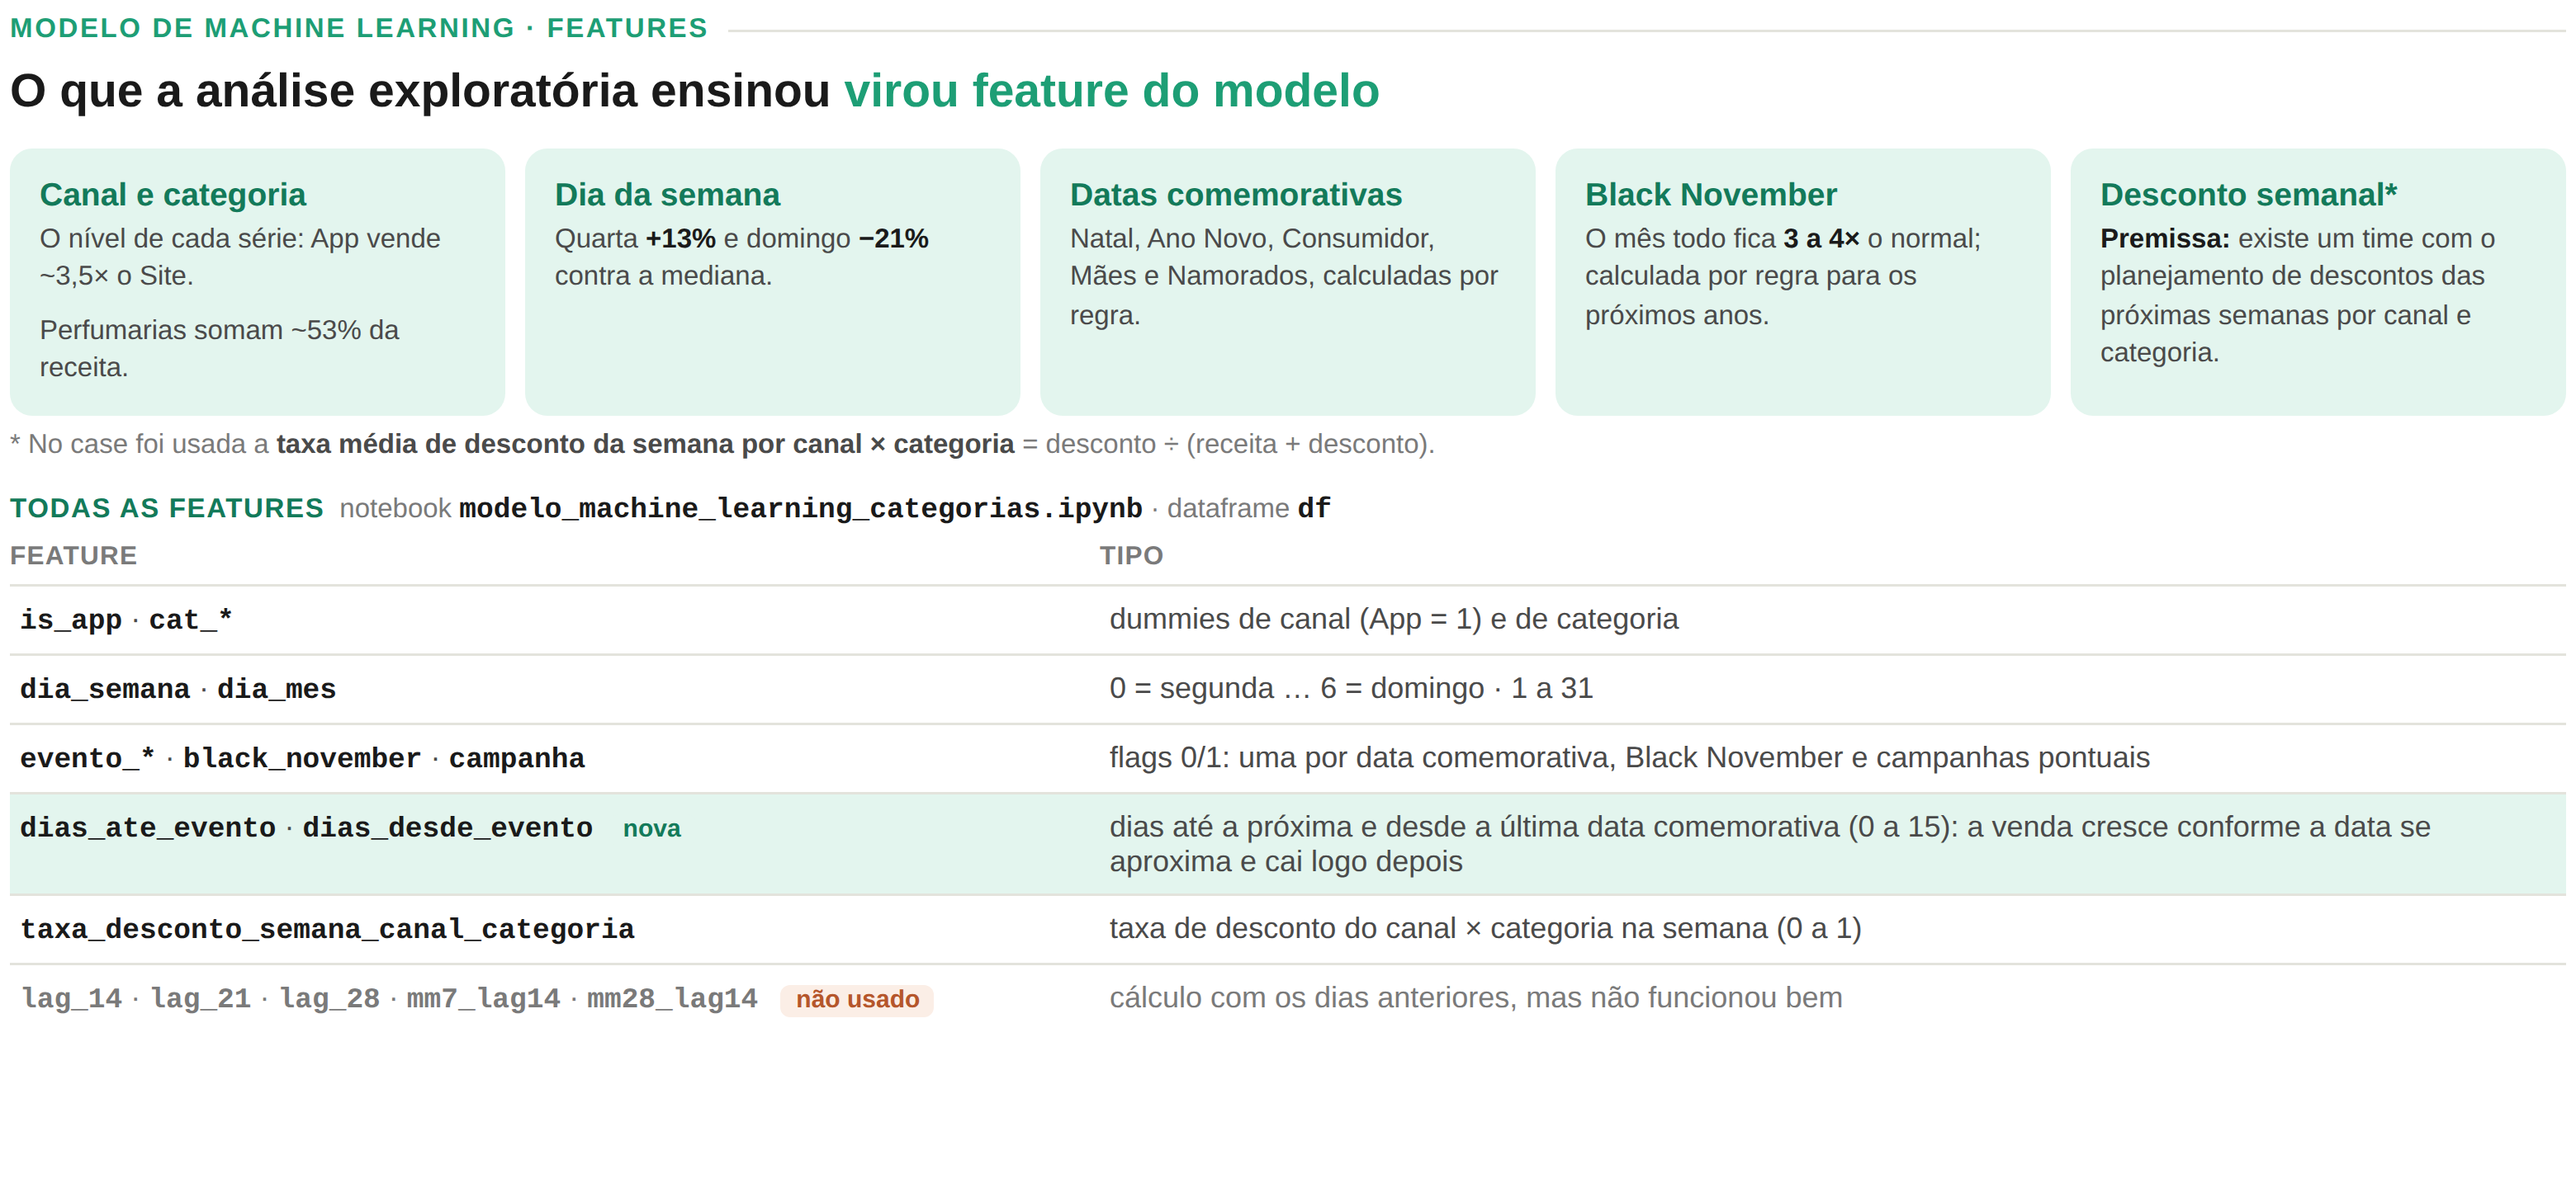
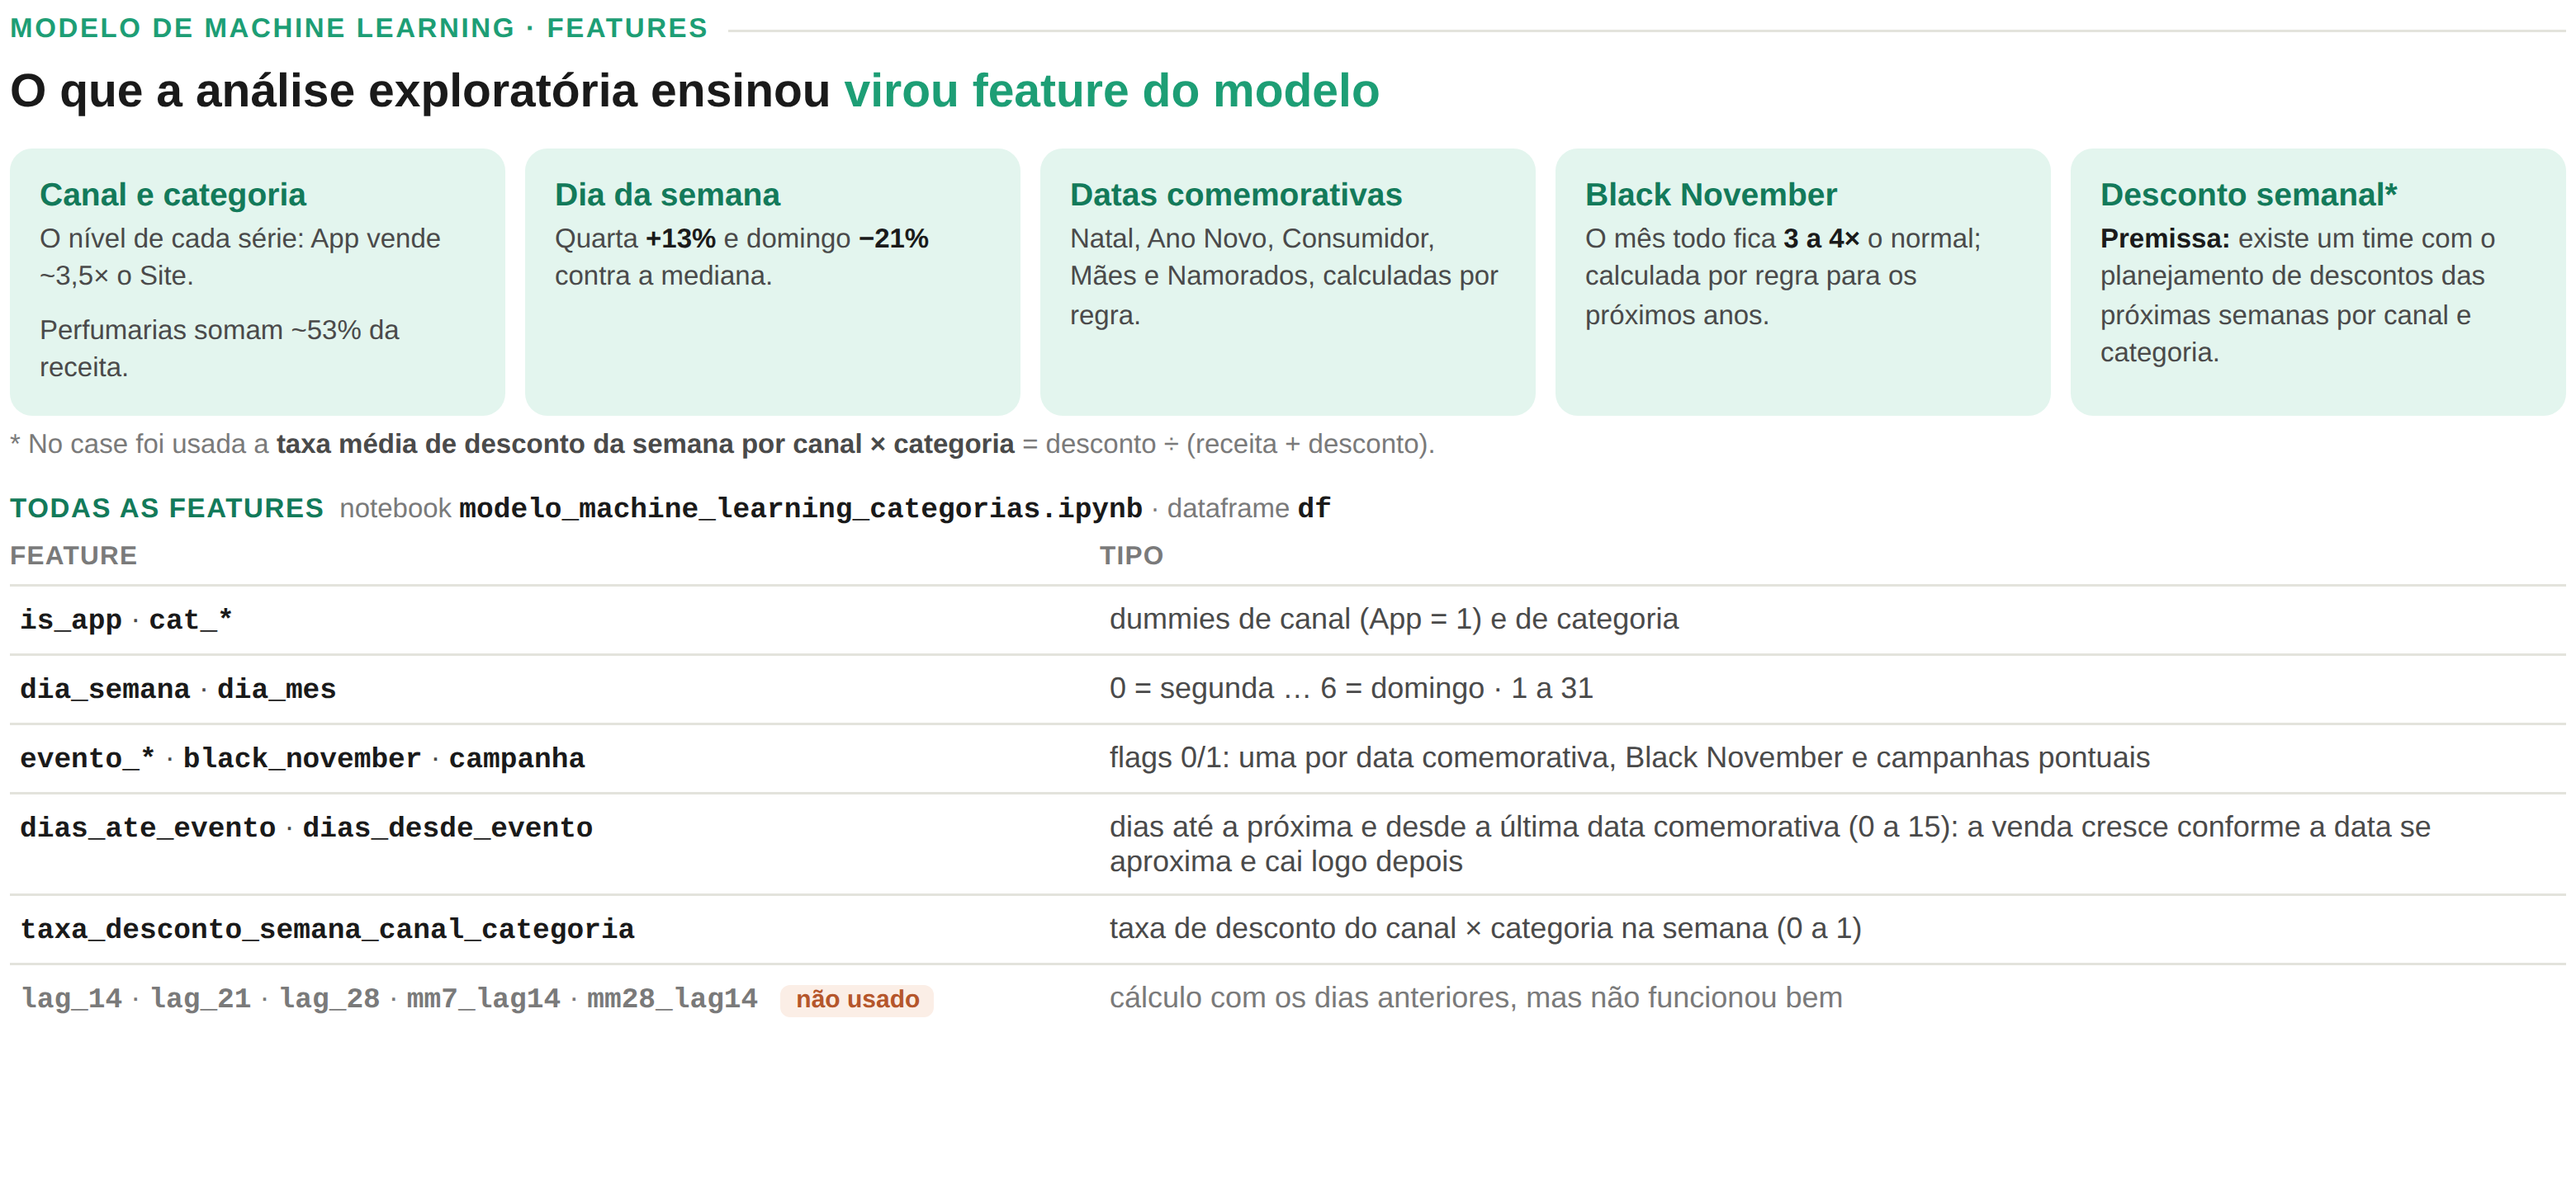
Widget de features: distância às datas como feature comum
Claude-Session: https://claude.ai/code/session_01NUJZKTcM8cs9QBTcUeuacF

Changed region(s): [[0.0, 0.6562, 1.0, 0.75]]

diff --git a/apresentacao/widgets/12_modelo_intro.html b/apresentacao/widgets/12_modelo_intro.html
@@ -61,7 +61,7 @@
       <tr><td><code>is_app</code> · <code>cat_*</code></td><td>dummies de canal (App = 1) e de categoria</td></tr>
       <tr><td><code>dia_semana</code> · <code>dia_mes</code></td><td>0 = segunda … 6 = domingo · 1 a 31</td></tr>
       <tr><td><code>evento_*</code> · <code>black_november</code> · <code>campanha</code></td><td>flags 0/1: uma por data comemorativa, Black November e campanhas pontuais</td></tr>
-      <tr class="nova"><td><code>dias_ate_evento</code> · <code>dias_desde_evento</code><span class="selo usa">nova</span></td><td>dias até a próxima e desde a última data comemorativa (0 a 15): a venda cresce conforme a data se aproxima e cai logo depois</td></tr>
+      <tr><td><code>dias_ate_evento</code> · <code>dias_desde_evento</code></td><td>dias até a próxima e desde a última data comemorativa (0 a 15): a venda cresce conforme a data se aproxima e cai logo depois</td></tr>
       <tr><td><code>taxa_desconto_semana_canal_categoria</code></td><td>taxa de desconto do canal × categoria na semana (0 a 1)</td></tr>
       <tr class="fora"><td><code>lag_14</code> · <code>lag_21</code> · <code>lag_28</code> · <code>mm7_lag14</code> · <code>mm28_lag14</code> <span class="selo nao" style="white-space:nowrap">não usado</span></td><td>cálculo com os dias anteriores, mas não funcionou bem</td></tr>
     </table>
